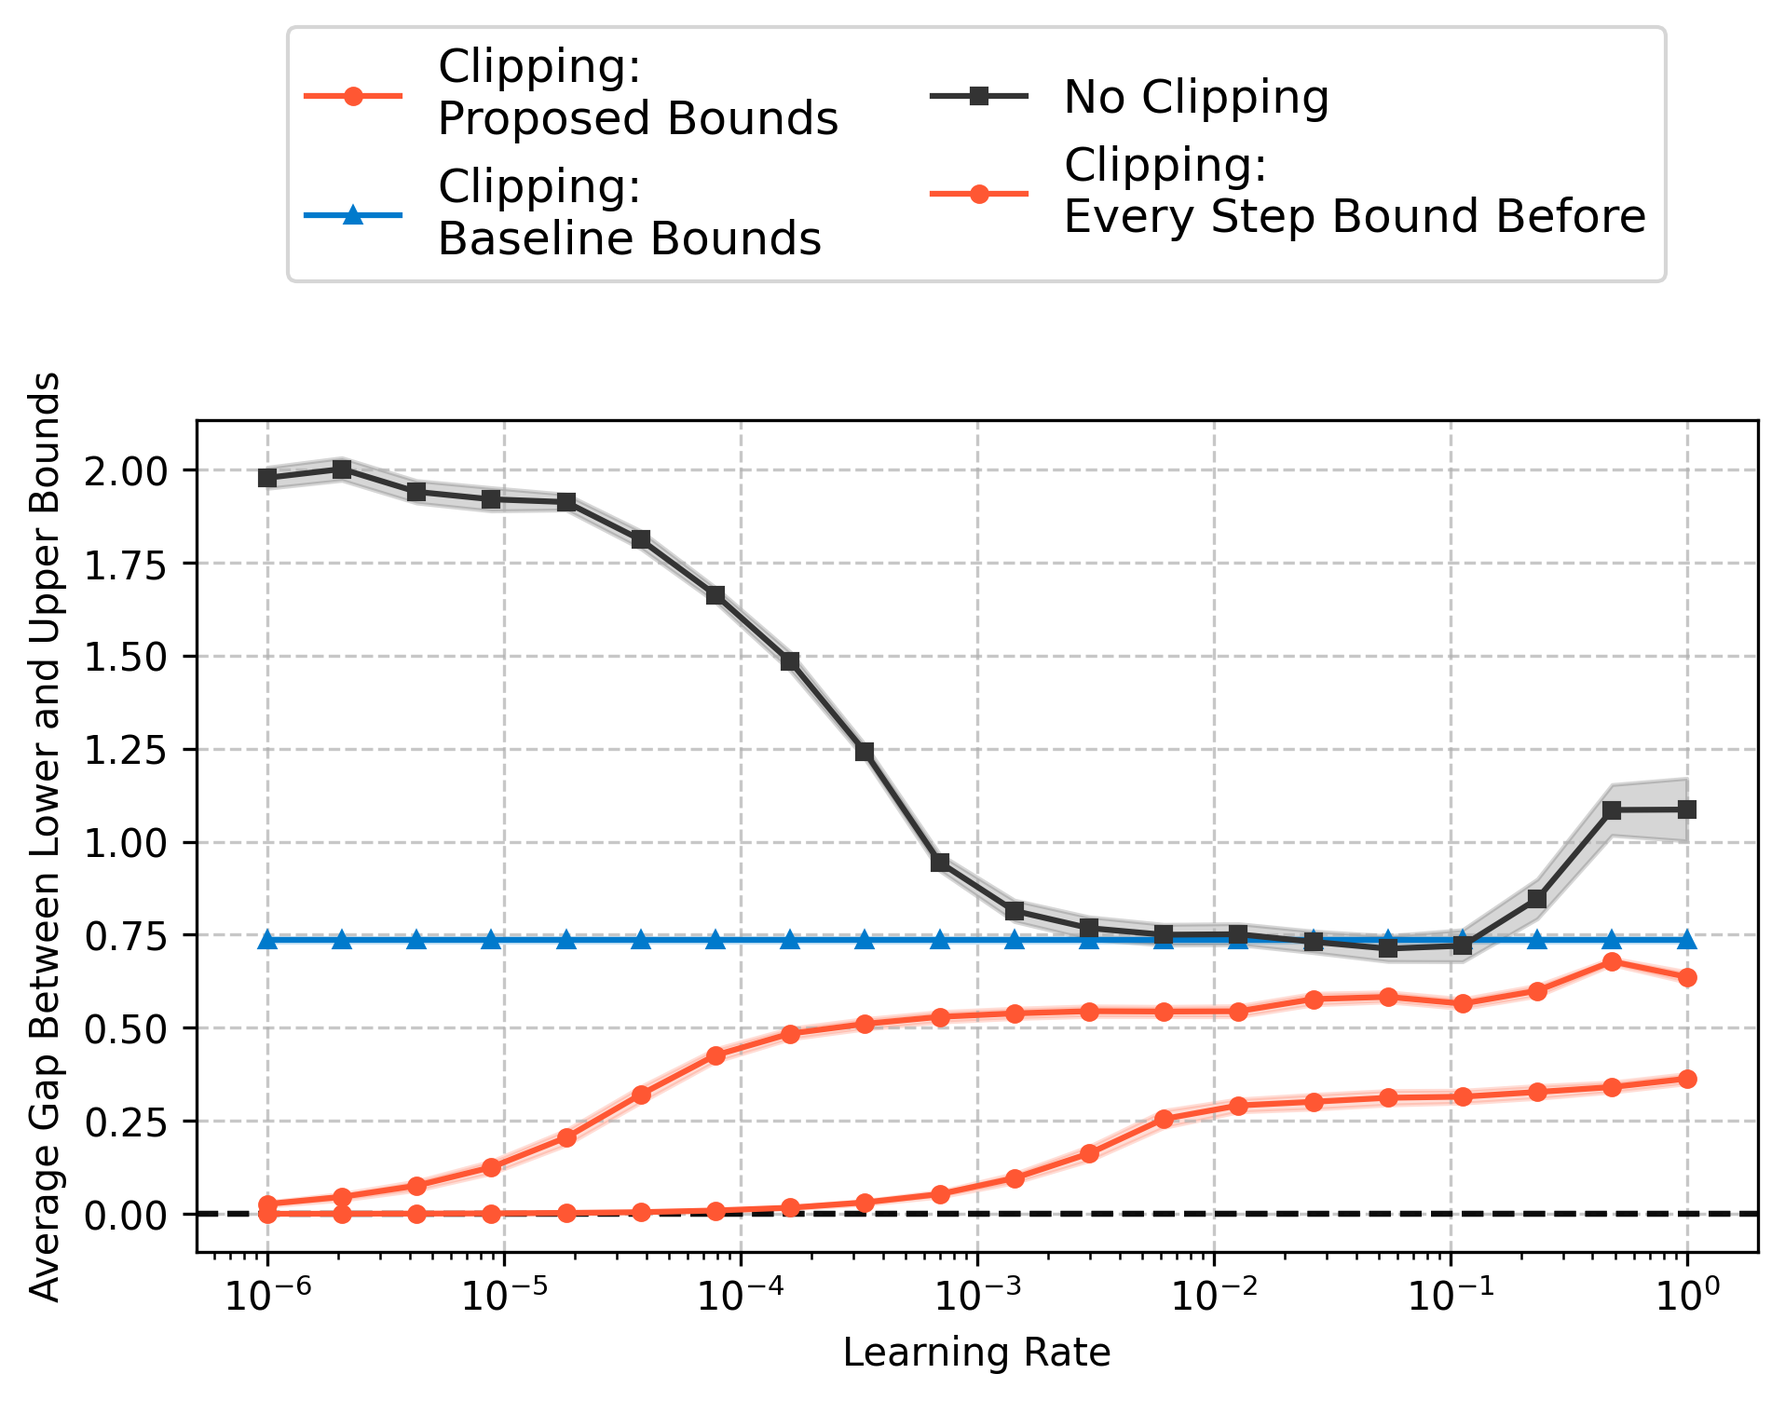
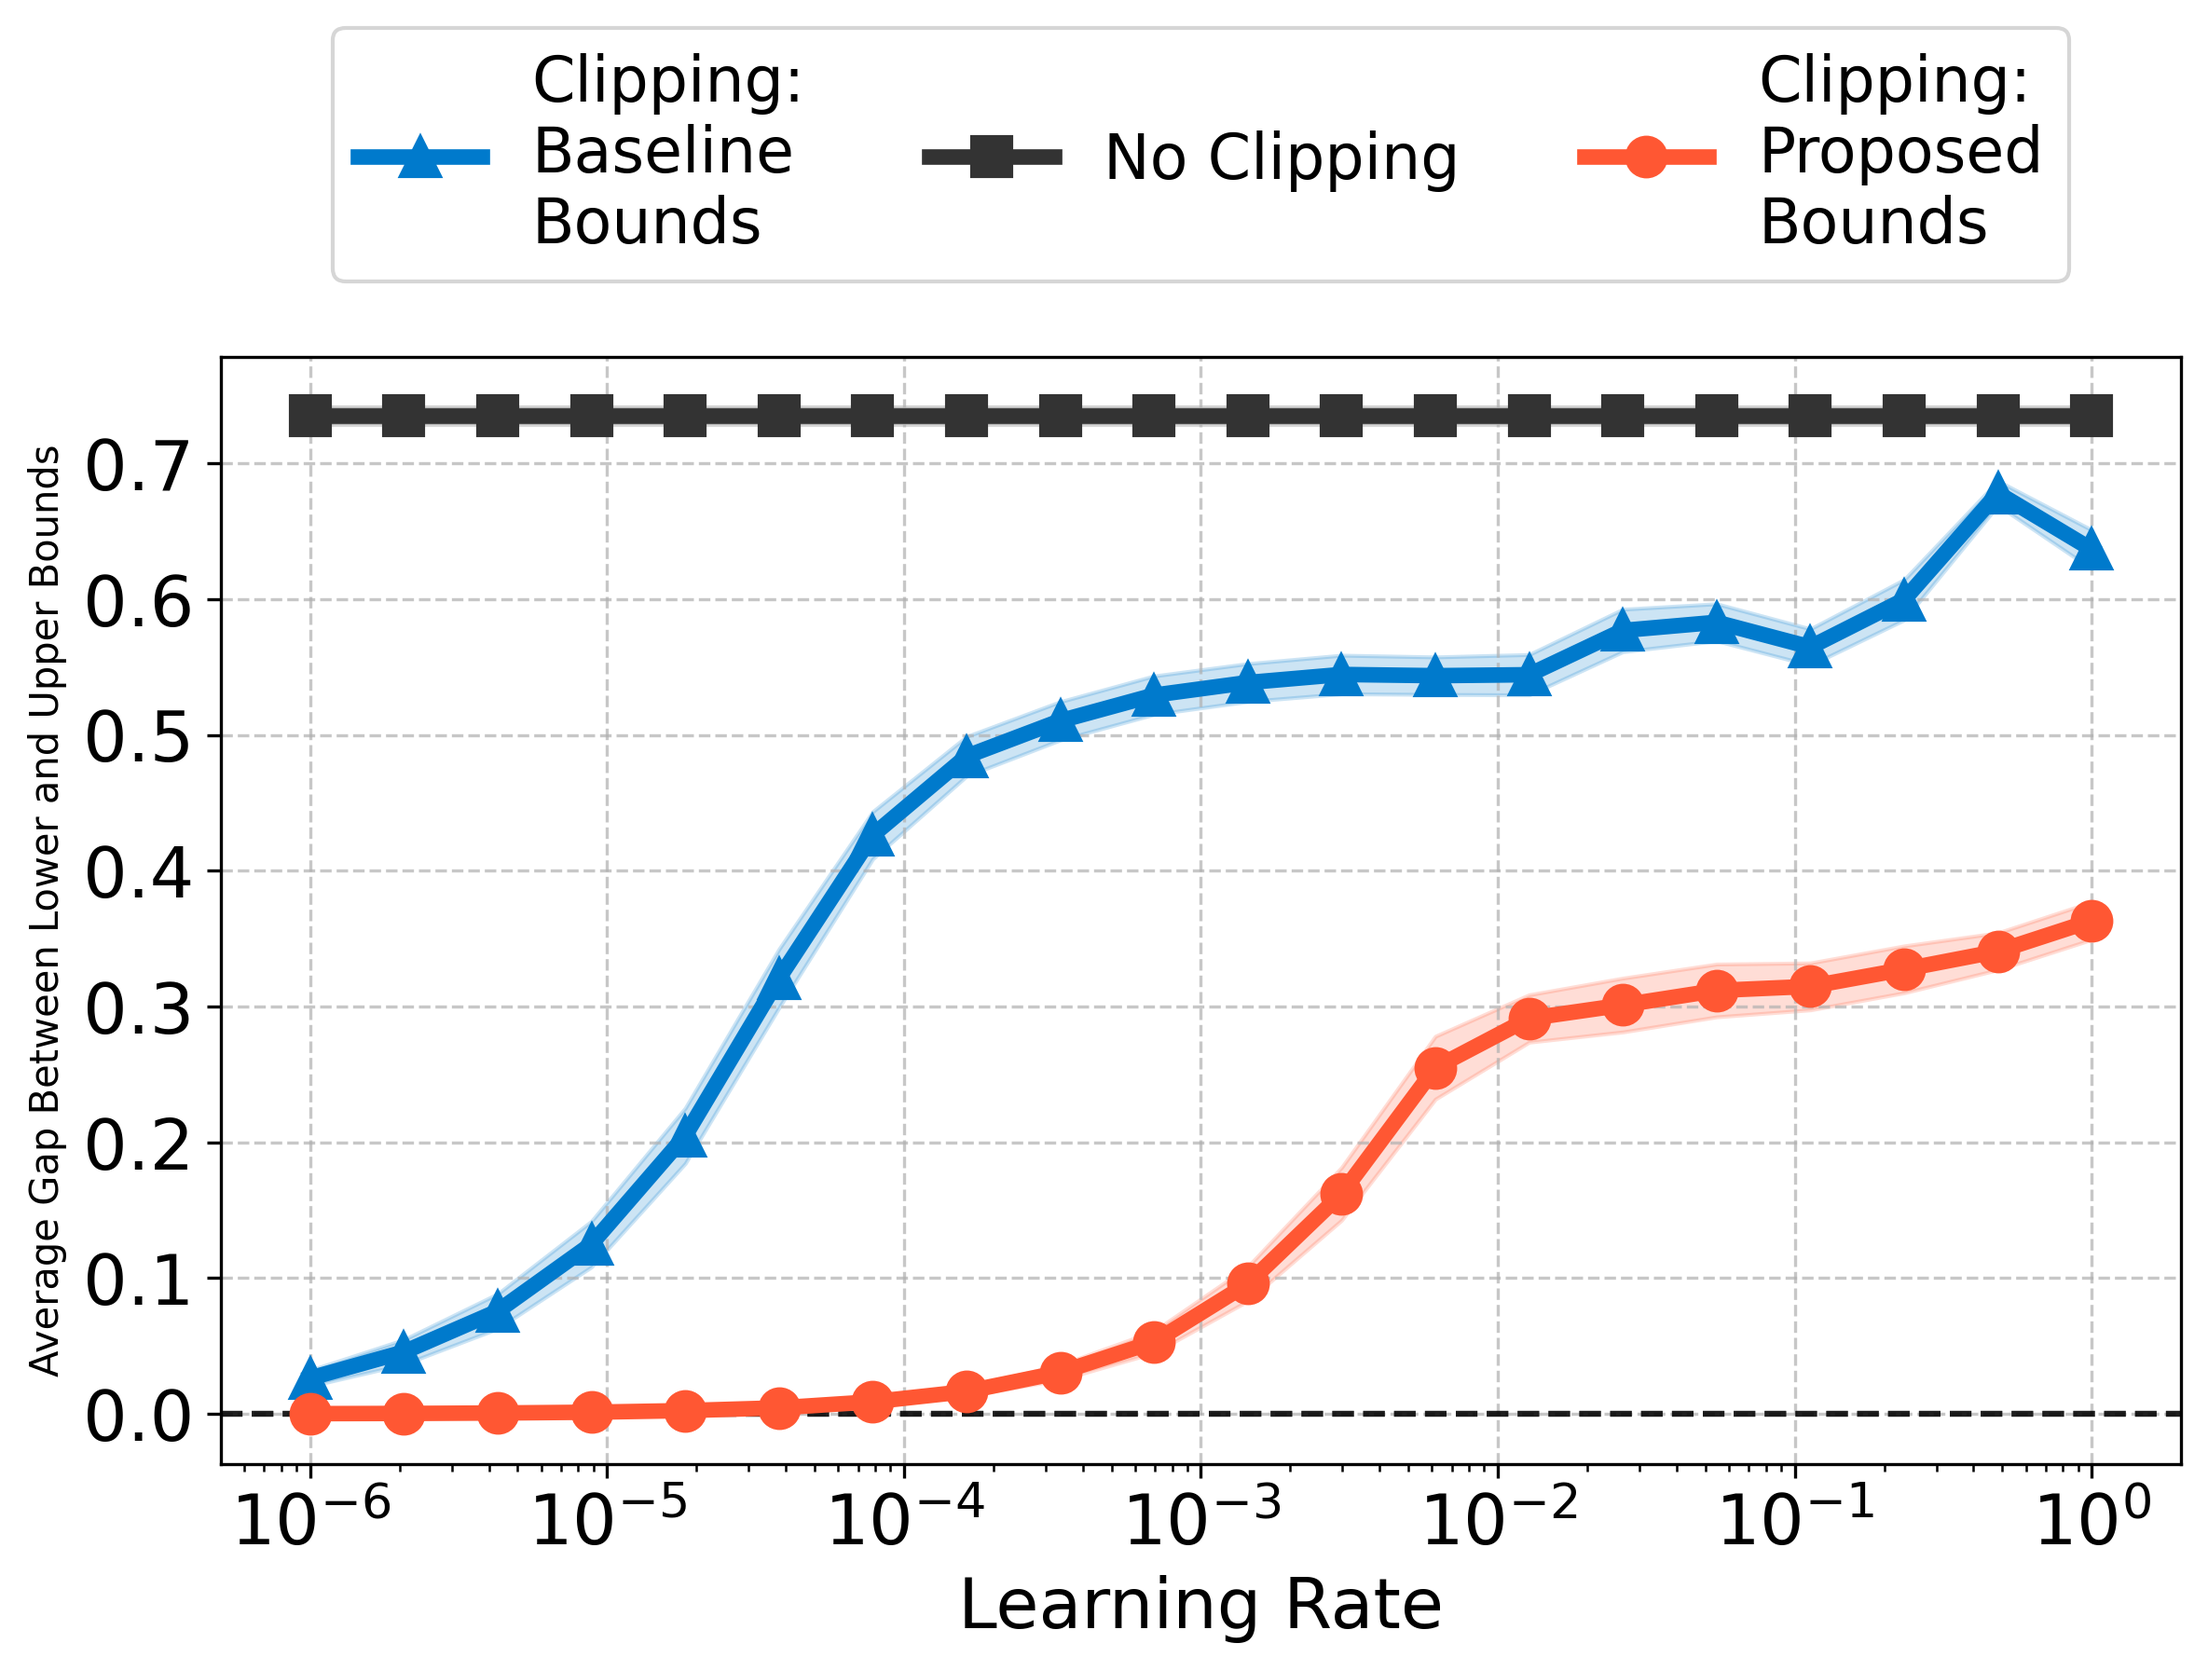
updated plots

diff --git a/plot_lr_sensitivity.py b/plot_lr_sensitivity.py
@@ -10,12 +10,6 @@ methods = {
     'none': {'clip': False, 'naive': False},
 }
 
-
-colors = ['#FF5733', '#007acc',  '#333333']
-markers = ['o', '^', 's']
-
-
-
 def preprocess(csv_file):
     # Load the data from avg_rewards.csv:
     df = pd.read_csv(csv_file)
@@ -47,7 +41,16 @@ def plot_all(ax, csv_file, value, custom_names=None):
         # assert len(custom_names) == len(), "Custom names must have the same length as the methods dict."
         labels = custom_names
     else:
-        labels = ['Clipping:\nProposed Bounds', "Clipping:\nBaseline Bounds", 'No Clipping']
+        labels = ['Clipping:\nProposed\nBounds', "Clipping:\nBaseline\nBounds", 'No Clipping']
+
+    colors = ['#FF5733', '#007acc',  '#333333']
+    markers = ['o', '^', 's']
+
+    if csv_file != 'lr_sweep2.csv':
+        # Remove the hard clip method from plotting:
+        labels = labels[1:]
+        colors = colors[1:]
+        markers = markers[1:]
 
     for method, label, color, marker in zip(methods.keys(), labels, colors, markers):
         clip = methods[method]["clip"]
@@ -67,7 +70,8 @@ def plot_all(ax, csv_file, value, custom_names=None):
             # Also smooth the standard deviation:
             std = subdf[value]['sem']
             std = std.rolling(window=WINDOW).mean()
-            markersize=4
+            markersize = 10
+            linewidth = 4
             if value == 'avg_gap':
                 # Rescale the x axis by a factor of lr:
                 x = subdf['lr']
@@ -85,20 +89,26 @@ def plot_all(ax, csv_file, value, custom_names=None):
             #                 rwds + std, alpha=0.2,
             #                     color=color)
             # Plot with shading for error:
-            ax.plot(x, rwds, label=label, color=color, marker=marker, markersize=markersize)
+            ax.plot(x, rwds, label=label, color=color, marker=marker, 
+                    markersize=markersize, lw=linewidth)
             ax.fill_between(x, rwds - std,
                             rwds + std, alpha=0.2,
                                 color=color)
             
             
-    plt.xlabel('Learning Rate')
+    plt.xlabel('Learning Rate', fontdict={'fontsize': 18})
+    # Change tick mark fonts:
+    plt.xticks(fontsize=18)
+    plt.yticks(fontsize=18)
     if value == 'avg_reward':
-        plt.ylabel('Total Integrated Evaluation Reward (AUC)')
+        plt.ylabel('Average Integrated\nEvaluation Reward (AUC)', fontdict={'fontsize': 18})
         plt.xlabel('Learning rate')
 
     elif value == 'avg_gap':
         plt.ylabel('Average Gap Between Lower and Upper Bounds')
-    plt.legend(loc='upper center', bbox_to_anchor=(0.5, 1.5), fancybox=True, shadow=False, ncol=2, fontsize=12)
+    plt.legend(loc='upper center', bbox_to_anchor=(0.5, 1.325), fancybox=True, 
+               shadow=False, ncol=3, fontsize=16)
+    # plt.xlim(1e-5,1)
     # use grid lines with sns style:
     plt.grid(True, linestyle='--', alpha=0.7)
     # plt.xlim(0,0.0001)
@@ -114,14 +124,14 @@ def plot_all(ax, csv_file, value, custom_names=None):
 if __name__ == '__main__':
 
     for data_name in ['avg_reward', 'avg_gap']:
-        fig, ax = plt.subplots()
+        fig, ax = plt.subplots(figsize=(8, 6))
 
         csv_files = ['lr_sweep.csv', 'lr_sweep2.csv']
 
         for csv_file in csv_files:
             custom_names = None
             if csv_file == 'lr_sweep2.csv':
-                custom_names = ['Clipping:\nEvery Step Bound Before']
+                custom_names = ['Clipping:\nProposed\nBounds']
             plot_all(ax, csv_file, data_name, custom_names=custom_names)
             if data_name == 'avg_reward':
                 plt.ylim(-0.1,1.05)
